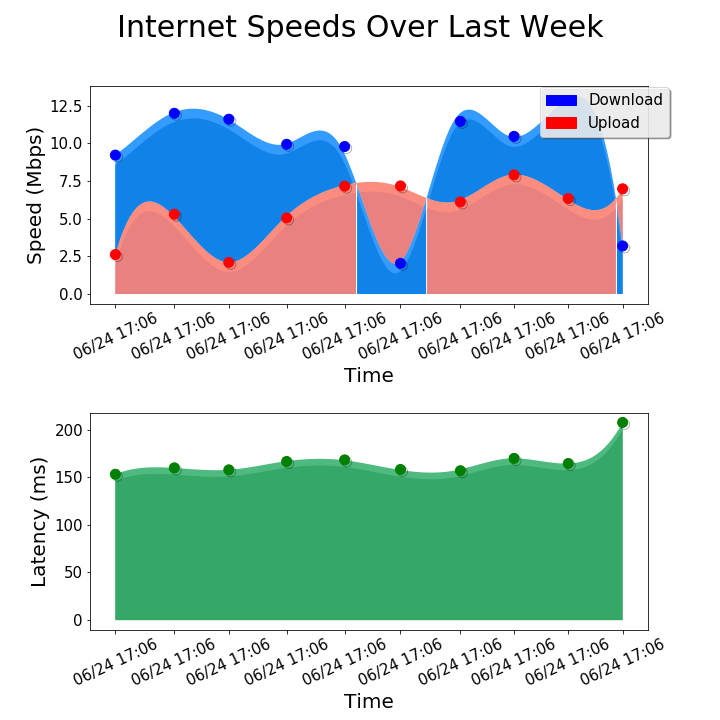
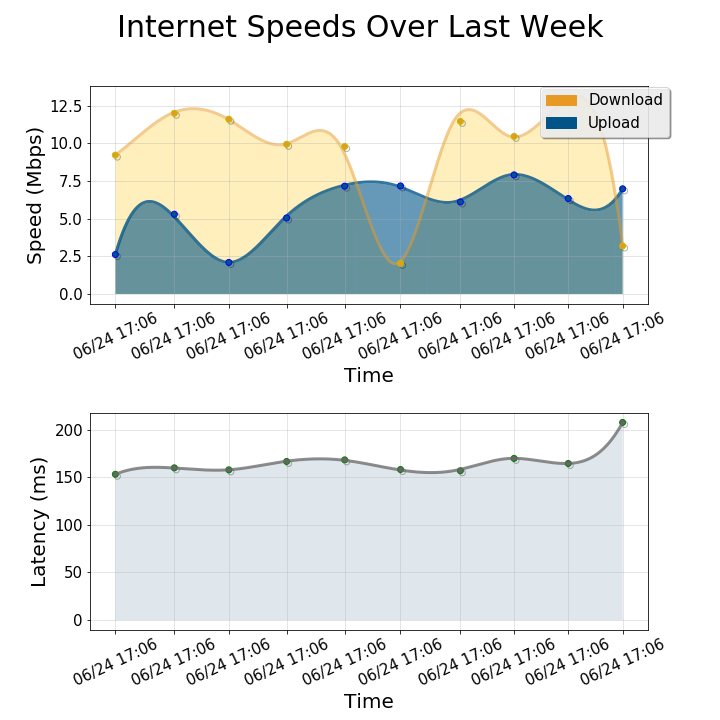
changed color scheme and shading patterns

diff --git a/SpeedTestParser3.py b/SpeedTestParser3.py
@@ -27,7 +27,7 @@ down_speed = down_speed / 1000000
 up_speed = speed_data[:, 1].copy()
 up_speed = up_speed / 1000000
 latency = speed_data[:, 2].copy()
-num_points=500
+num_points=1000
 num_points2=(int)(num_points * (down_speed.size-1)/down_speed.size)
 time_of_test=np.arange(0, (int)(down_speed.size), 1)
 time_model = np.linspace(np.min(time_of_test), np.max(time_of_test), num_points2)
@@ -67,7 +67,18 @@ time_stretch = [val for val in time_of_test1 for _ in range(multiplier)]
 down_stretch = [val for val in down_speed for _ in range(multiplier)]
 up_stretch = [val for val in up_speed for _ in range(multiplier)]
 lat_stretch = [val for val in latency for _ in range(multiplier)]
-msize=10
+msize=6
+up_c1=(0, 0.33, 0.53)
+up_c2=(0.02,0.47,0.69)
+down_c1=(0.91, 0.6, 0.14)
+down_c2=(1, 0.85, 0.36)
+lat_c1=(0.11, 0.39, 0.39)
+lat_c2=(0.2, 0.6, 0.6)
+lat_c3=(0.1, 0.7, 0.4)
+red_c1=(0.78, 0.31, 0)
+gray_c1=(0.4, 0.4, 0.4)
+gray_c2=(0.87, 0.9, 0.93)
+
 name1="Download Speed"
 name2="Upload Speed"
 name3="Latency"
@@ -81,34 +92,38 @@ plt.rc('ytick',labelsize=15)
 fig.subplots_adjust(hspace=0.5)
 plt.subplot(211)
 fig.suptitle("Internet Speeds Over Last Week", fontsize=30)
-plt.grid(False)
+plt.grid(alpha=0.4)
 
 #Download and Upload Speed
-plt.plot_date(time_stretch, down_stretch, 'bo', markevery=multiplier, ms=msize, path_effects=[path_effects.SimpleLineShadow(),path_effects.Normal()])
-plt.plot_date(time_stretch, up_stretch, 'ro', markevery=multiplier, ms=msize, path_effects=[path_effects.SimpleLineShadow(),path_effects.Normal()])
-#plt.plot_date(data['Time'], data['Download'], 'b-')
-#plt.plot_date(data['Time'], data['Upload'], 'r-')
+plt.plot_date(data['Time'], data['Upload'], '-', color=up_c1, lw=msize/2, alpha=0.8)
+plt.plot_date(data['Time'], data['Download'], '-', color=down_c1, lw=msize/2, alpha=0.5)
+plt.plot_date(time_stretch, down_stretch, 'yo', mfc=down_c1, markevery=multiplier, ms=msize, path_effects=[path_effects.SimpleLineShadow(),path_effects.Normal()])
+plt.plot_date(time_stretch, up_stretch, 'bo', mfc=up_c1, markevery=multiplier, ms=msize, path_effects=[path_effects.SimpleLineShadow(),path_effects.Normal()])
+
 
 #Shading
 d = data['Time'].values
-plt.fill_between(d, data['Download'], data['Upload'], where=data['Download'] >= data['Upload'],facecolor='dodgerblue', alpha=0.9, interpolate=True)
-plt.fill_between(d, data['Download'] - 0.65, data['Upload'], where=data['Download']-0.65 >= data['Upload'],facecolor=(0.05, 0.50, 0.9), alpha=0.9, interpolate=True)
+###plt.fill_between(d, data['Download'], data['Upload'], where=data['Download'] >= data['Upload'],facecolor=down_c2, alpha=0.9, interpolate=True)
+plt.fill_between(d, data['Download'] - 0.1, y2=0, where=data['Download']-0.1 >= data['Upload'],facecolor=down_c2, alpha=0.4, interpolate=True)
+plt.fill_between(d, data['Download'] - 0.1, y2=0, where=data['Download']-0.1 < data['Upload'],facecolor=down_c2, alpha=0.4, interpolate=True)
 
-plt.fill_between(d, data['Upload'], y2=0, where=data['Download'] >= data['Upload'],facecolor='salmon', alpha=0.9, interpolate=True)
-plt.fill_between(d, data['Upload'] - 0.65, y2=0, where=data['Download'] >= data['Upload'],facecolor=(.90, .50, .50), alpha=0.9, interpolate=True)
+###plt.fill_between(d, data['Upload'], y2=0, where=data['Download'] >= data['Upload'],facecolor=up_c2, alpha=0.9, interpolate=True)
+###plt.fill_between(d, data['Upload'] - 0.65, y2=0, where=data['Download'] >= data['Upload'],facecolor=up_c1, alpha=0.9, interpolate=True)
+plt.fill_between(d, data['Upload'] - 0.1, y2=0, where=(True),facecolor=up_c1, alpha=0.6, interpolate=True)
 
 
-plt.fill_between(d, data['Download'], data['Upload'], where=data['Download'] < data['Upload'],facecolor='salmon', alpha=0.9, interpolate=True)
+#plt.fill_between(d, data['Download'], data['Upload'], where=data['Download'] < data['Upload'],facecolor=up_c2, alpha=0.9, interpolate=True)
+###plt.fill_between(d, data['Download'] - 0.65, y2=0, where=data['Download'] < data['Upload'],facecolor=up_c1, alpha=0.9, interpolate=True)
+
 #plt.fill_between(d, data['Download'] - 0.75, data['Upload'], where=data['Download'] < data['Upload'] - 0.65,facecolor=(0.9, 0.5, 0.5), alpha=0.9, interpolate=True)
 
-plt.fill_between(d, data['Download'], y2=0, where=data['Download'] < data['Upload'],facecolor='dodgerblue', alpha=0.9, interpolate=True)
-plt.fill_between(d, data['Download'] - 0.65, y2=0, where=data['Download'] < data['Upload'],facecolor=(0.05, 0.5, 0.9), alpha=0.9, interpolate=True)
+#plt.fill_between(d, data['Download'], y2=0, where=data['Download'] < data['Upload'],facecolor=down_c2, alpha=0.9, interpolate=True)
+#plt.fill_between(d, data['Download'] - 0.65, y2=0, where=data['Download'] < data['Upload'],facecolor=down_c1, alpha=0.9, interpolate=True)
 
-plt.fill_between(d, data['Upload'] - 0.65, data['Download'], where=data['Download'] < data['Upload'] - 0.65,facecolor=(0.9, 0.5, 0.5), alpha=0.9, interpolate=True)
+###plt.fill_between(d, data['Upload'] - 0.65, data['Download'], where=data['Download'] < data['Upload'] - 0.65,facecolor=up_c1, alpha=0.9, interpolate=True)
 
-
-blue_patch = mpatches.Patch(color='blue', label=name1)
-red_patch = mpatches.Patch(color='red', label=name2)
+blue_patch = mpatches.Patch(color=down_c1, label=name1)
+red_patch = mpatches.Patch(color=up_c1, label=name2)
 plt.xlabel("Time", fontsize=20)
 plt.ylabel("Speed (Mbps)", fontsize=20)
 plt.figlegend([blue_patch, red_patch], ('Download', 'Upload'), loc=(0.75, 0.81), fancybox=True, framealpha=0.8, shadow=True, fontsize=15)
@@ -118,12 +133,14 @@ plt.xticks(time_of_test1, time_of_test2)
 
 #Latency Plot
 plt.subplot(212)
-plt.plot_date(time_stretch, lat_stretch, 'go', markevery=multiplier, ms=msize, path_effects=[path_effects.SimpleLineShadow(),path_effects.Normal()])
-plt.fill_between(d, data['Latency'], y2=0, facecolor='mediumseagreen', alpha=0.9, interpolate=True)
-plt.fill_between(d, data['Latency'] - 7, y2=0, facecolor=(0.2, 0.65, 0.4), alpha=0.9, interpolate=True)
+plt.plot_date(time_stretch, lat_stretch, 'go', mfc=gray_c1, markevery=multiplier, ms=msize, path_effects=[path_effects.SimpleLineShadow(),path_effects.Normal()])
+plt.plot_date(data['Time'], data['Latency'], '-', color=gray_c1, lw=msize/2, alpha=0.75)
+
+plt.fill_between(d, data['Latency'], y2=0, facecolor=gray_c2, alpha=0.95, interpolate=True)
+#plt.fill_between(d, data['Latency'] - 7, y2=0, facecolor=lat_c1, alpha=0.9, interpolate=True)
 
 plt.xlabel("Time", fontsize=20)
-
+plt.grid(alpha=0.4)
 plt.xticks(rotation=25, color="k")
 plt.xticks(time_of_test1, time_of_test2)
 plt.ylabel("Latency (ms)", fontsize=20)
